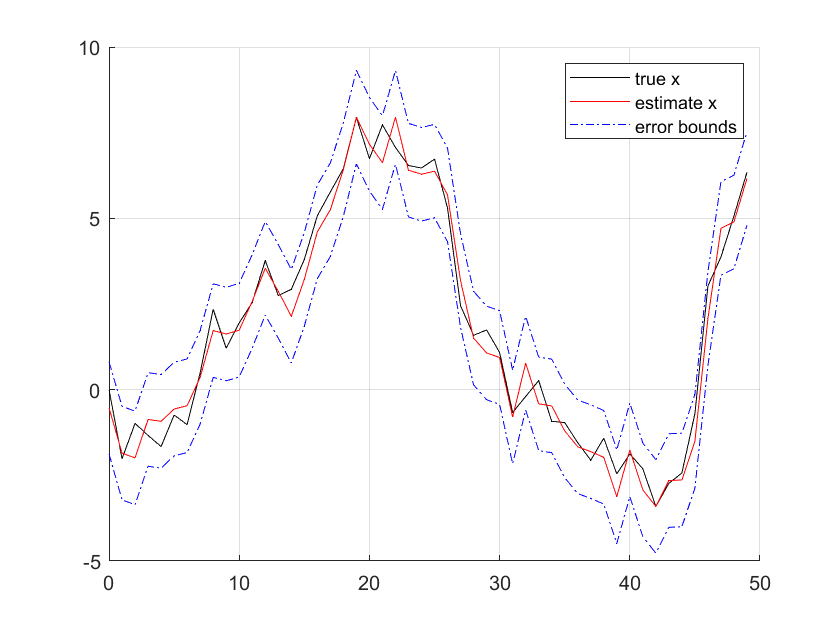
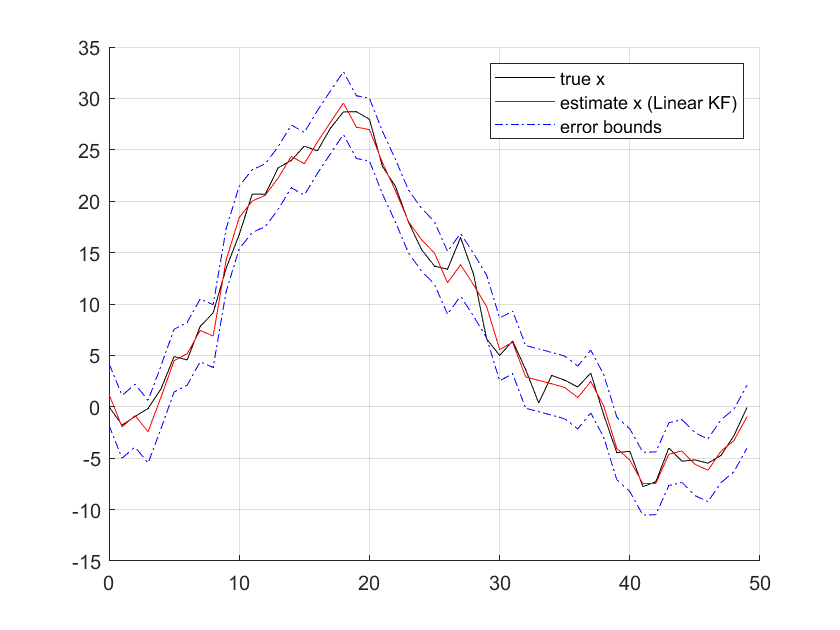
added steady-state KF

diff --git a/1. Linear KF/linear_KF.m b/1. Linear KF/linear_KF.m
@@ -1,7 +1,9 @@
 clc;clear;close
+%% Linear Kalman Filter
+
 % Variable Init
-Sig_w = 1; %Process Noise
-Sig_v = 1; %Sensor Noise
+Sig_w = 5; %Process Noise
+Sig_v = 5; %Sensor Noise
 A = 1; B = 1; C = 2; D = 0; % Simple State-Space Model
 
 %Initial State
@@ -14,6 +16,11 @@ xstore = zeros(1,iteration+1);
 xstore(1,1) = x; % initial value
 xhatstore = zeros(1,iteration);
 SigXstore = zeros(1^2,iteration);
+
+% For Later Use: Steady-state KF
+ustore = zeros(1,iteration+1);
+ustore(1,1) = u;
+zstore = zeros(1,iteration);
 
 for k=1:iteration
     %true value simulation
@@ -41,7 +48,45 @@ for k=1:iteration
     xstore(1,k+1) = x;
     xhatstore(1,k) = xhat;
     SigXstore(1,k) = SigX;
+
+    %for SS KF Comparison
+    ustore(1,k+1) = u;
+    zstore(1,k)=z;
 end
+
+%% Steady-state Kalman Filter (infinite horizon)
+
+%Obtain Steady-State Kalman Gain
+hamiltonian = [A^(-1)' A^(-1)'*C'*Sig_v^(-1)*C; Sig_w*A^(-1)' A+Sig_w*A^(-1)'*C'*Sig_w^(-1)*C];
+[evector,evalue] = eig(hamiltonian);
+psi12 = evector(1,2);
+psi22 = evector(2,2);
+sigX_ss_minus = psi22*psi12^(-1);
+L_ss = sigX_ss_minus*C'*(C*sigX_ss_minus*C'+Sig_v)^(-1);
+sigX_ss_plus = sigX_ss_minus-L_ss*C*sigX_ss_minus;
+
+%initialization
+x2 = 0; xhat2 = 0;
+xhatstore2 = zeros(1,iteration);
+
+for t=1:iteration
+    u2_prev = ustore(1,t);
+    u2 = ustore(1,t+1);
+    z2 = zstore(1,t);
+    
+    %Kalman Filter Prediction 1 (state estimate prediction)
+    xhat2 = A*xhat2+B*u2_prev;
+    %Kalman Filter Prediction 3 (output prediction)
+    zhat2 = C*xhat2+D*u2;
+
+    %Kalman Filter Update 2 (state estimate update)
+    xhat2 = xhat2 + L_ss*(z2-zhat2);
+
+
+    xhatstore2(1,t) = xhat2;
+
+end
+
 figure(1)
 hold on
 plot(0:iteration-1,xstore(1:iteration)','k-')
@@ -49,7 +94,15 @@ plot(0:iteration-1,xhatstore','r-')
 plot(0:iteration-1,xhatstore'+3*sqrt(SigXstore'), 'b-.', ...
     0:iteration-1,xhatstore'-3*sqrt(SigXstore'), 'b-.')
 grid on
-legend('true x','estimate x','error bounds')
+legend('true x','estimate x (Linear KF)','error bounds')
 hold off
 
-
+figure(2)
+hold on
+plot(0:iteration-1,xstore(1:iteration)','k-')
+plot(0:iteration-1,xhatstore2','r-')
+plot(0:iteration-1,xhatstore2'+3*sqrt(sigX_ss_plus'), 'b-.', ...
+    0:iteration-1,xhatstore2'-3*sqrt(sigX_ss_plus'), 'b-.')
+grid on
+legend('true x','estimate x (SS KF)','error bounds')
+hold off
